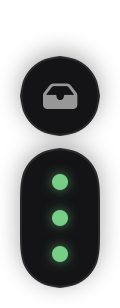
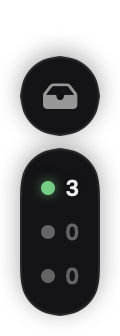
Pill: CI as passing/failing/running counts instead of one dot per repo

diff --git a/Sources/Lookout/PillView.swift b/Sources/Lookout/PillView.swift
@@ -15,12 +15,9 @@ struct PillView: View {
             }
             if !store.ciRepos.isEmpty {
                 group {
-                    VStack(spacing: 8) {
-                        ForEach(store.ciRepos) { repo in
-                            let status = store.ci[repo.fullName]
-                            CIDot(state: status?.state ?? .none)
-                                .frame(width: 32, height: 10)
-                                .help("\(repo.fullName) · \(status?.branch ?? "main") \(status?.state.label ?? "…")")
+                    VStack(spacing: 6) {
+                        ForEach([CIState.success, .failure, .pending], id: \.self) { state in
+                            ciCount(state)
                         }
                     }
                     .padding(.vertical, 8)
@@ -90,6 +87,20 @@ struct PillView: View {
         }
         .overlay(alignment: .bottomTrailing) { statusBadge.offset(x: 4, y: 4) }
         .animation(.spring(duration: 0.3), value: unread)
+    }
+
+    /// One row per CI state with the number of repos in it; hover lists them.
+    private func ciCount(_ state: CIState) -> some View {
+        let repos = store.ciRepos(in: state)
+        let names = repos.map { "\($0.fullName) (\(store.ci[$0.fullName]?.branch ?? "main"))" }
+        return HStack(spacing: 5) {
+            CIDot(state: repos.isEmpty ? .none : state, size: 7)
+            Text("\(repos.count)")
+                .font(.system(size: 11, weight: .semibold).monospacedDigit())
+                .foregroundStyle(repos.isEmpty ? Theme.tertiary : Theme.text)
+        }
+        .frame(width: 32, height: 16)
+        .help(repos.isEmpty ? "No repos \(state.label)" : "\(state.label.capitalized) on main:\n" + names.joined(separator: "\n"))
     }
 
     /// Settings live in the panel; the pill only surfaces problems and snooze.

diff --git a/Sources/Lookout/Store.swift b/Sources/Lookout/Store.swift
@@ -95,6 +95,10 @@ final class Store {
     var isSnoozed: Bool { (settings.snoozeUntil ?? .distantPast) > Date() }
     var ciRepos: [RepoConfig] { repos.filter { $0.events.contains(.ciMain) } }
 
+    func ciRepos(in state: CIState) -> [RepoConfig] {
+        ciRepos.filter { ci[$0.fullName]?.state == state }
+    }
+
     func isLowPriority(_ item: InboxItem) -> Bool {
         let author = item.author.lowercased()
         if settings.treatAppsAsBots && item.authorIsApp { return true }

diff --git a/README.md b/README.md
@@ -12,7 +12,7 @@ Requires macOS 14+. Auth comes from `gh auth token` (or a token pasted in Settin
 
 ## Using it
 
-- **Pill**: inbox (amber badge = unread items that need you, grey dot = only bots; a purple moon means snoozed, a red mark means a sync error), and one CI dot per repo. Settings are in the panel. Drag the top handle to move it; it snaps to the nearest edge. `⌃⌥Space` toggles the panel.
+- **Pill**: inbox (amber badge = unread items that need you, grey dot = only bots; a purple moon means snoozed, a red mark means a sync error), and CI counts: how many repos are passing (green), failing (red) and running (amber) on main; hover a row to see which. Settings are in the panel. Drag the top handle to move it; it snaps to the nearest edge. `⌃⌥Space` toggles the panel.
 - **Repositories**: add `owner/repo` (suggestions come from repos you own or are involved in) and toggle: issues, issue comments, PRs, PR comments, review comments, CI on the default branch.
 - **Inbox**: *Needs you* / *Bots* / *Done*. Hover a row to mark it read, discard it, or open it. Keys: ↑↓ to move, Return to open, Space to toggle read, ⌫ to discard or restore, Esc to close.
 - **States**: unread → read (you saw it) → **addressed** (you replied after it, so this happens automatically) → **resolved** (review thread resolved, synced through GraphQL). Discarded items go to Done.
